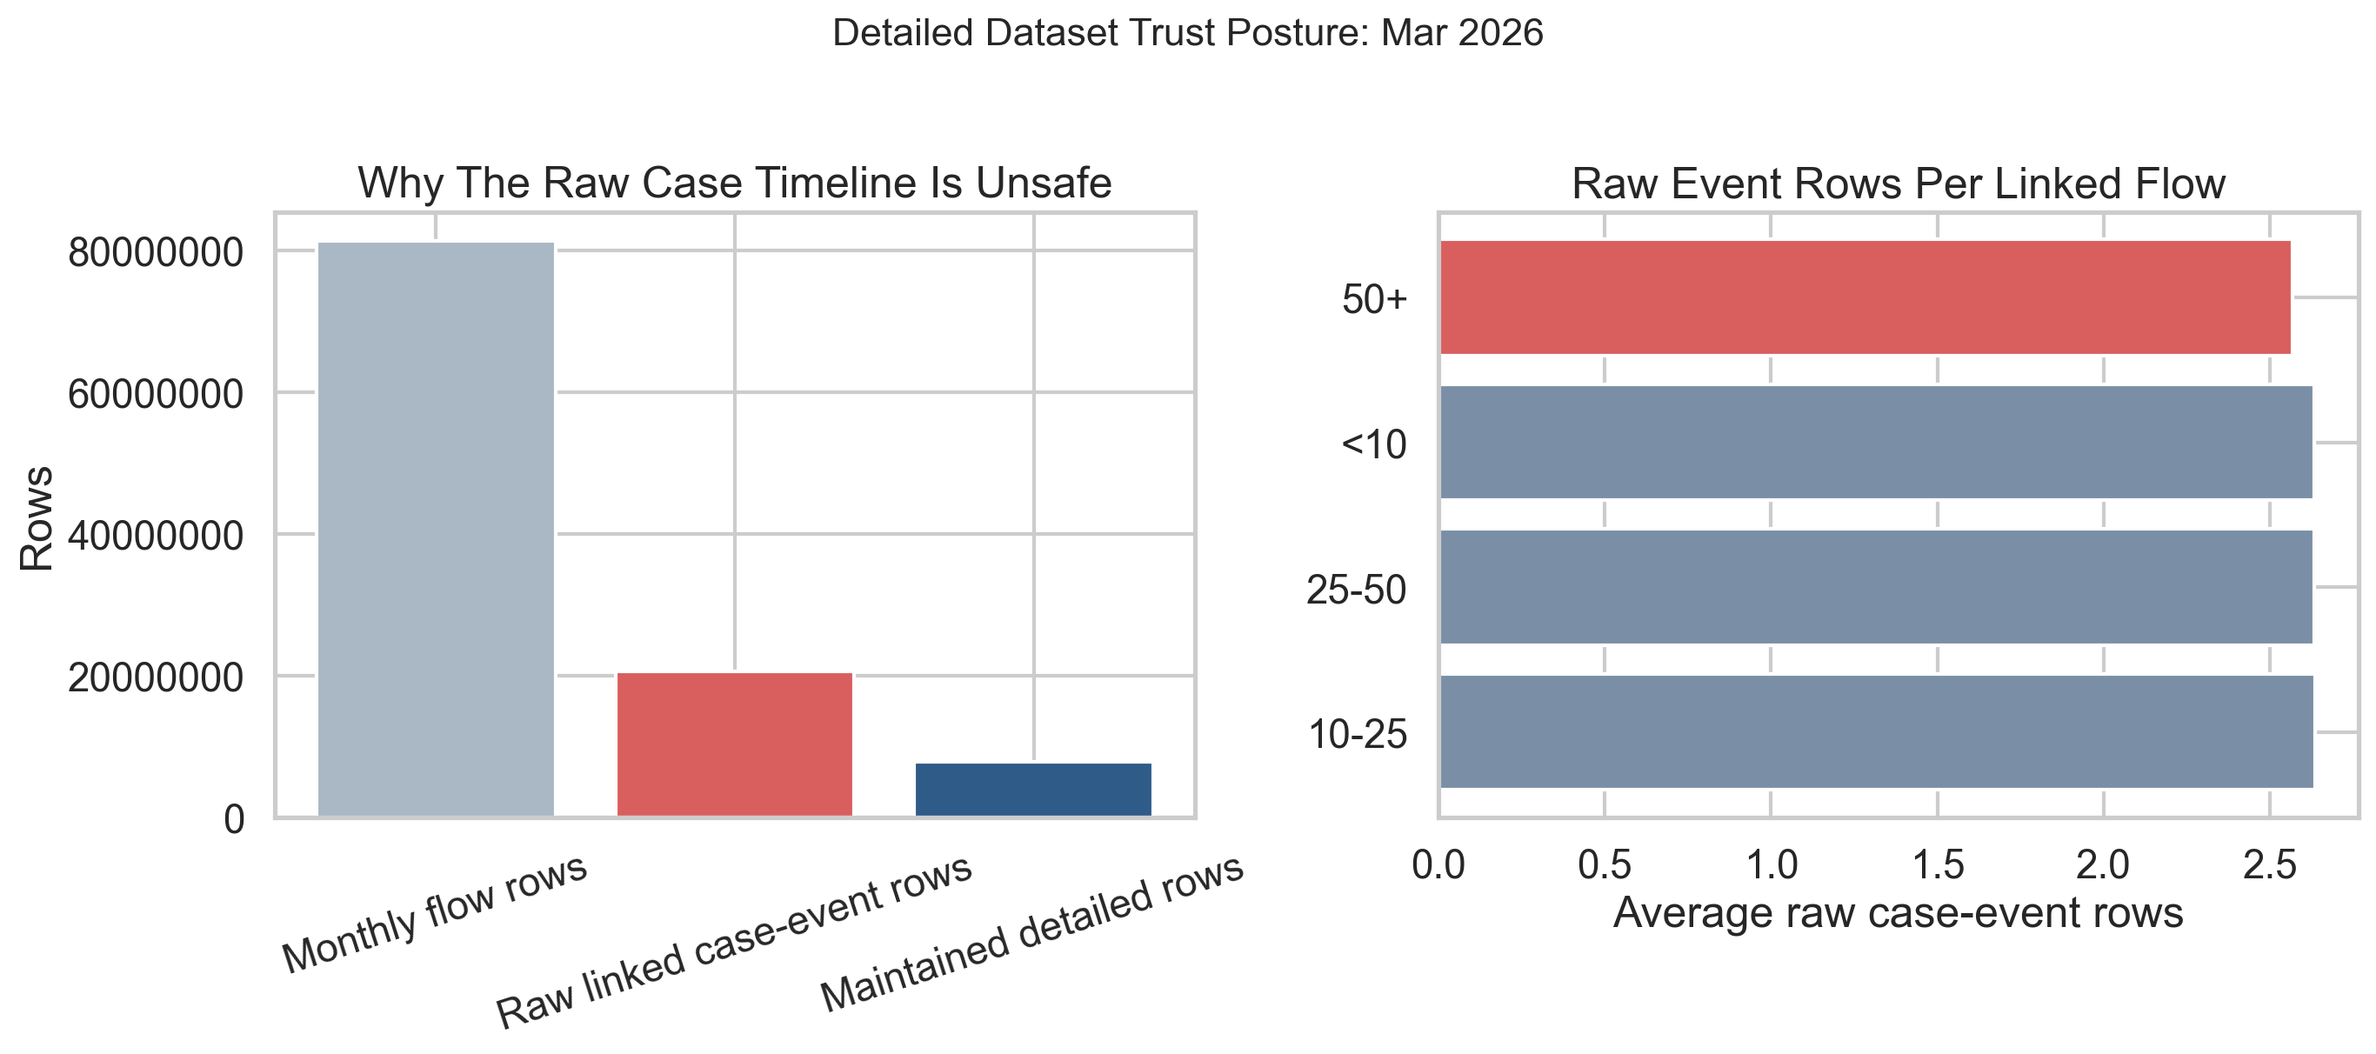
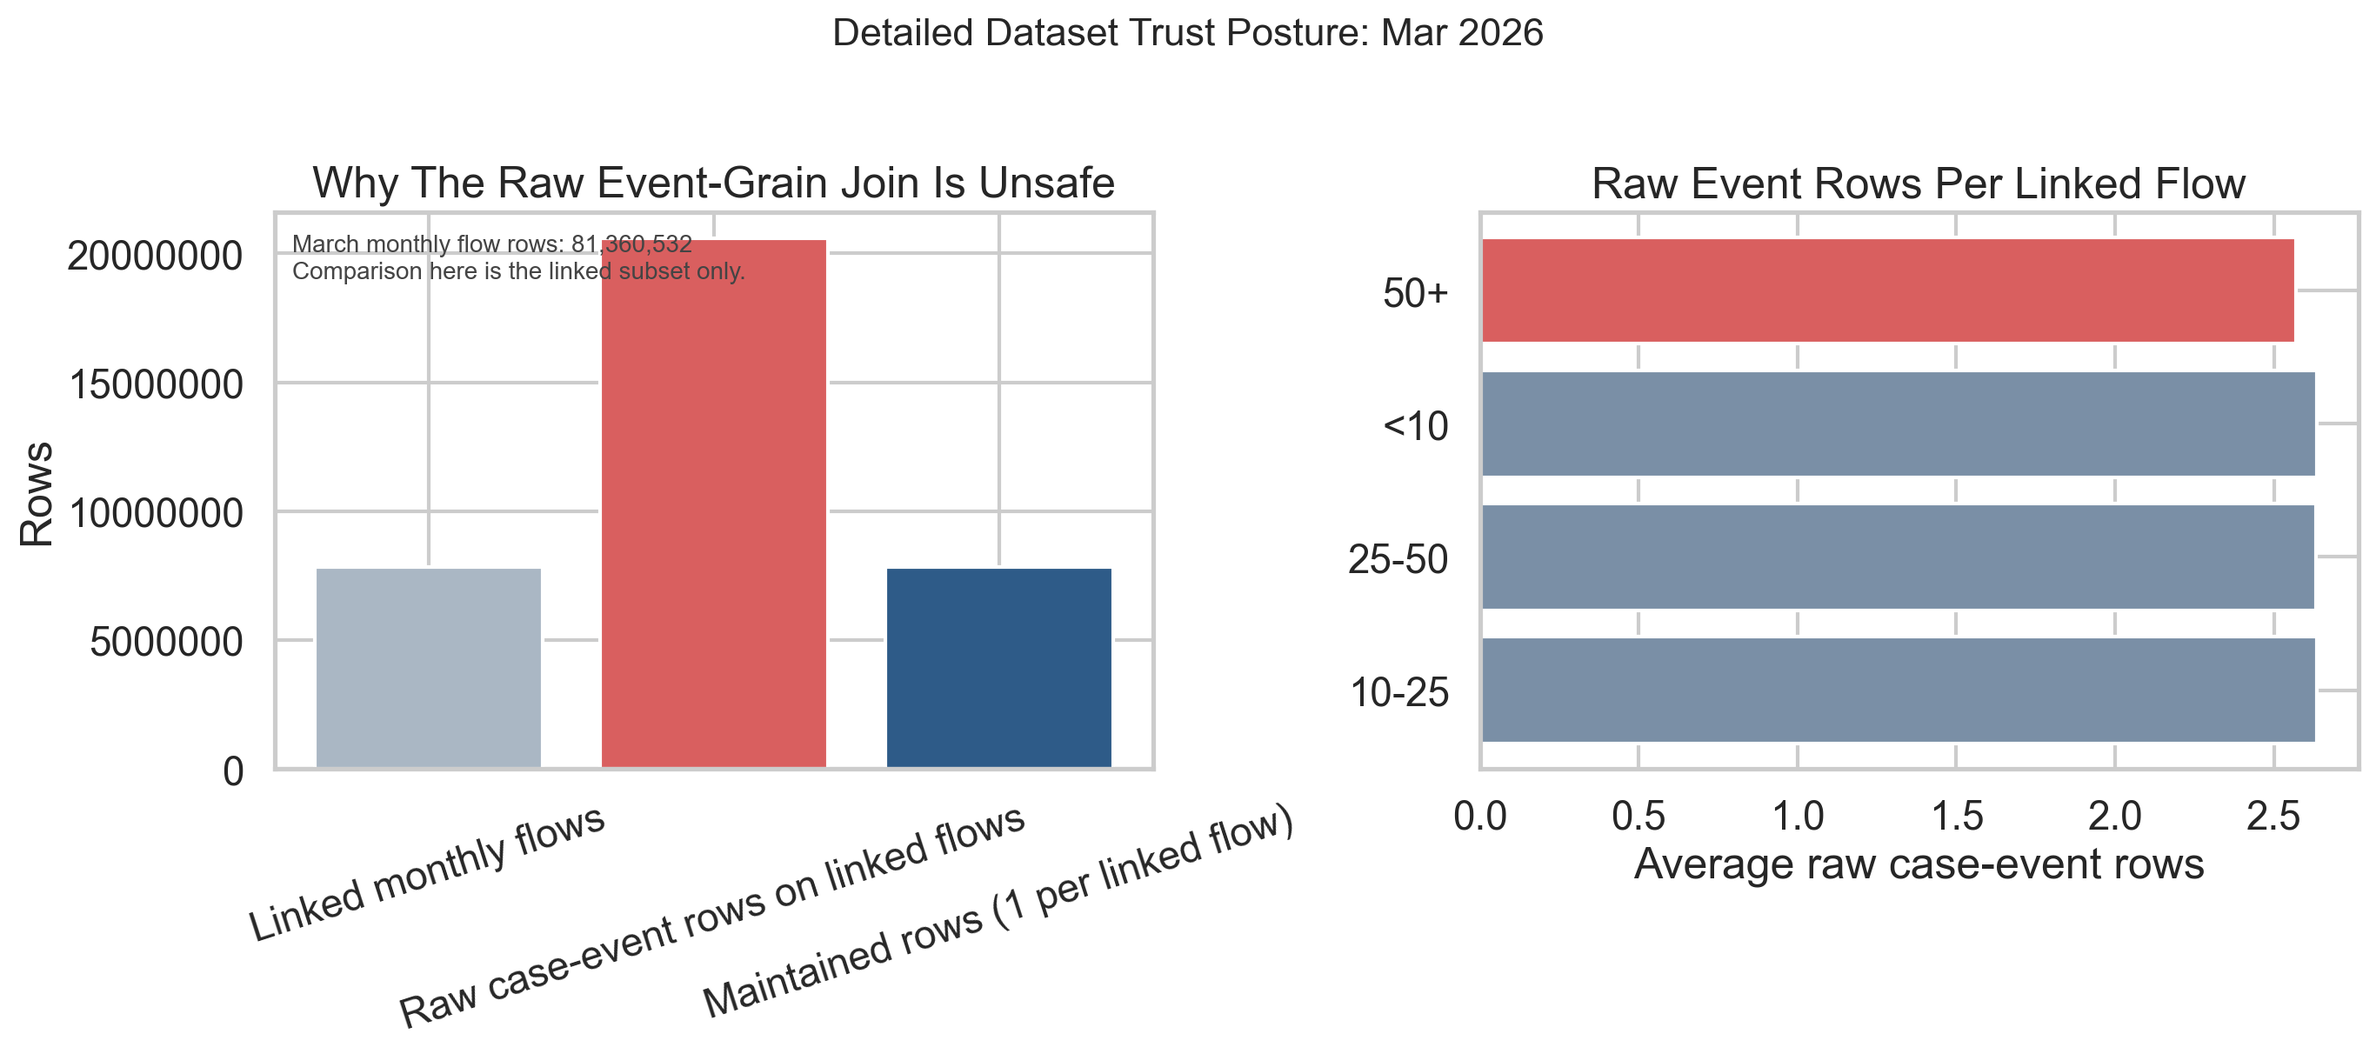
Update execution report and figures for patient-level dataset stewardship; enhance clarity and detail in visualizations

diff --git a/artefacts/analytics_slices/data_analyst/inhealth_group/02_patient_level_dataset_stewardship/models/build_patient_level_dataset_stewardship.py b/artefacts/analytics_slices/data_analyst/inhealth_group/02_patient_level_dataset_stewardship/models/build_patient_level_dataset_stewardship.py
@@ -424,12 +424,12 @@ def main() -> None:
     overall_bars = pd.DataFrame(
         {
             "stage": [
-                "Monthly flow rows",
-                "Raw linked case-event rows",
-                "Maintained detailed rows",
+                "Linked monthly flows",
+                "Raw case-event rows on linked flows",
+                "Maintained rows (1 per linked flow)",
             ],
             "rows": [
-                float(overall_profile["flow_rows"]),
+                float(overall_profile["case_linked_rows"]),
                 float(overall_profile["raw_case_event_rows_on_linked_flows"]),
                 float(dataset_metrics["maintained_rows"]),
             ],
@@ -441,9 +441,18 @@ def main() -> None:
         color=["#AAB7C4", "#D95F5F", "#2E5B88"],
     )
     axes[0].ticklabel_format(style="plain", axis="y")
-    axes[0].set_title("Why The Raw Case Timeline Is Unsafe")
+    axes[0].set_title("Why The Raw Event-Grain Join Is Unsafe")
     axes[0].set_ylabel("Rows")
     axes[0].tick_params(axis="x", rotation=18)
+    axes[0].annotate(
+        f"March monthly flow rows: {comma(float(overall_profile['flow_rows']))}\nComparison here is the linked subset only.",
+        xy=(0.02, 0.96),
+        xycoords="axes fraction",
+        ha="left",
+        va="top",
+        fontsize=10,
+        color="#444444",
+    )
 
     axes[1].barh(
         band_profile_df["label"],

diff --git a/docs/experience_lake/outward-facing-assets/analytics-role-lenses/data_analyst/inhealth_group/02_patient_level_dataset_stewardship/execution_report.md b/docs/experience_lake/outward-facing-assets/analytics-role-lenses/data_analyst/inhealth_group/02_patient_level_dataset_stewardship/execution_report.md
@@ -1,0 +1,353 @@
+# Execution Report - Patient-Level Dataset Stewardship Slice
+
+As of `2026-04-04`
+
+Purpose:
+- record what was actually executed for the InHealth `Data Analyst` slice around patient-level dataset maintenance, validation, and reconciliation
+- preserve the truth boundary between one bounded detailed-dataset stewardship proof object and any wider claim about full healthcare patient-record ownership
+- package the saved facts, maintained dataset outputs, validation and reconciliation checks, stewardship notes, and supporting figures into one outward-facing report
+
+Truth boundary:
+- this execution was completed against the bounded `local_full_run-7` raw parquet surfaces, but only through filtered SQL scans and compact derived outputs
+- the slice did not load broad raw source families into pandas or another in-memory dataframe layer
+- the slice was limited to one stewardship window:
+  - `Mar 2026`
+- the employer language is patient-level, but the honest platform analogue here is a case-level sensitive reporting dataset built from:
+  - monthly flow records
+  - rolled case state
+  - truth labels
+- the slice therefore supports a truthful claim about maintaining, validating, and reconciling one detailed reporting dataset and protecting downstream reporting accuracy through that stewardship
+- it does not support a claim that a broad healthcare patient-record estate or full longitudinal stewardship programme has already been implemented
+
+---
+
+## 1. Executive Answer
+
+The slice asked:
+
+`can one bounded detailed reporting dataset be maintained, validated, and reconciled carefully enough that a downstream monthly reporting output remains accurate and defensible?`
+
+The bounded answer is:
+- one detailed monthly stewardship window was fixed:
+  - `Mar 2026`
+- one maintained dataset grain was fixed:
+  - one row per `flow_id` where the monthly flow converted into case-opened work
+- the detailed source path was profiled before materialisation
+- one trust risk was identified clearly:
+  - the raw case surface is event-grain, not maintained reporting grain
+- one controlled fix was applied:
+  - roll the case timeline to one row per `flow_id` before joining it into the maintained detailed dataset
+- one maintained detailed dataset was produced with:
+  - `7,835,199` rows
+  - `7,835,199` distinct `flow_id`
+  - `7,835,199` distinct `case_id`
+- one validation pack was executed and passes `5/5` checks
+- one reconciliation pack was executed and matches the current InHealth `3.A` reporting lane exactly across `4/4` amount bands
+- the maintained dataset protects a downstream monthly reading of:
+  - `9.63%` overall case-open rate
+  - `19.86%` overall truth quality
+- regeneration takes about `491.1` seconds because the slice scans a large raw monthly detailed surface in bounded SQL rather than starting from already reduced weekly outputs
+
+That means this slice did not merely document data quality. It maintained one detailed reporting dataset carefully enough that downstream reporting could be reproduced exactly from the controlled version.
+
+## 2. Slice Summary
+
+The slice executed was:
+
+`one maintained case-level reporting dataset across one monthly window for one programme lane, with explicit validation, reconciliation, and reporting-protection controls`
+
+This was chosen because it allowed a direct response to the InHealth requirement:
+- maintain patient-level datasets
+- validate patient-level datasets
+- reconcile patient-level datasets
+- ensure reporting accuracy through that maintenance and reconciliation work
+
+The main delivered outputs were:
+- one source-profile output
+- one maintained detailed dataset
+- one validation-check output
+- one reporting-safe summary
+- one reconciliation-check output
+- one source map
+- one field-authority note
+- one issue note
+- one reporting-protection note
+- one maintenance checklist
+- one caveat note
+- one regeneration README
+
+## 3. How This Maps To The Slice Plan
+
+The execution stayed aligned to the approved InHealth `3.C` slice rather than drifting into a broader reporting-support or generic quality-programme story.
+
+The delivered scope maps back to the planned lens responsibilities as follows:
+- `03 - Data Quality, Governance, and Trusted Information Stewardship`: detailed source profiling, grain definition, field-authority control, maintained dataset materialisation, validation checks, and issue identification
+- `02 - BI, Insight, and Reporting Analytics`: one protected downstream reporting-safe summary and exact reconciliation back to the InHealth `3.A` reporting lane
+- `09 - Analytical Delivery Operating Discipline`: stable SQL build order, maintenance checklist, caveats note, and regeneration README
+- `01 - Operational Performance Analytics`: one bounded downstream operational consequence only, namely that the maintained dataset reproduces the protected current-month case-open and truth-quality readings safely
+
+The report therefore needs to be read as proof of careful detailed-dataset stewardship for one bounded lane, not as proof that every InHealth-style detailed dataset is already operationalised.
+
+## 4. Execution Posture
+
+The execution followed the corrected profiling-first and memory-safe posture rather than a casual detailed-data rebuild posture.
+
+The working discipline was:
+- start with source-path, grain, and field-suitability profiling before any maintained dataset build
+- keep all heavy work inside `DuckDB`
+- scan only the required month:
+  - `Mar 2026`
+- project only the fields needed for:
+  - grain confirmation
+  - field authority
+  - validation and reconciliation
+  - downstream reporting-safe use
+- materialise the maintained dataset in SQL only after the trust rules were stable
+- use Python only after the SQL layer had already reduced the raw surfaces to compact outputs
+
+This matters for the truth of the slice because the responsibility is about careful dataset stewardship, and the execution should reflect industry-style database discipline rather than toy-data assumptions.
+
+## 5. Bounded Build That Was Actually Executed
+
+### 5.1 Source profiling and grain confirmation
+
+The slice first confirmed the real structure of the detailed source path rather than assuming the richer HUC-style or Midlands-style shapes carried over directly.
+
+Observed bounded source facts used to define the maintained dataset:
+
+| Surface | `Mar 2026` Rows | Distinct Key Reading |
+| --- | ---: | ---: |
+| flow anchor | 81,360,532 | 81,360,532 distinct `flow_id` |
+| case timeline | 19,829,993 | 13,383,557 distinct `case_id`, 13,383,557 distinct `flow_id` |
+| truth labels surface | 236,691,694 total rows | 236,691,694 distinct `flow_id` |
+
+Important reading:
+- the bounded monthly flow surface is already one row per `flow_id`
+- the case surface is not reporting-safe at raw grain because it is event-grain
+- the truth surface was used as a full-surface lookup and uniqueness check because it is keyed stably at `flow_id` rather than month-partitioned inside this slice
+
+That meant the maintained dataset had to be defined as:
+- one row per monthly `flow_id`
+- but only where that flow converted into case-opened work
+- with one rolled case state and one truth state attached
+
+### 5.2 The trust risk that was actually found
+
+The stewardship issue was not a null-heavy or duplicate-truth issue. The real risk was grain mismatch.
+
+Observed current-month linkage facts:
+
+| Measure | Value |
+| --- | ---: |
+| March flows linked to case activity | 7,835,199 |
+| Raw case-event rows on those linked flows | 20,581,909 |
+| Average raw case-event rows per linked flow | 2.63 |
+
+Meaning:
+- if the raw case timeline were joined directly into a detailed reporting dataset, linked March flows would be duplicated
+- the duplication risk is structural, not cosmetic
+- the maintained dataset therefore had to roll the case timeline to one row per `flow_id` before joining
+
+This is the central stewardship proof of the slice.
+
+### 5.3 Maintained detailed dataset
+
+The maintained dataset was intentionally narrow and controlled.
+
+Observed maintained dataset facts:
+
+| Measure | Value |
+| --- | ---: |
+| Maintained dataset rows | 7,835,199 |
+| Distinct `flow_id` | 7,835,199 |
+| Distinct `case_id` | 7,835,199 |
+| Average raw case-event rows behind each maintained row | 2.63 |
+
+The maintained dataset therefore:
+- preserves one row per `flow_id`
+- preserves one `case_id` per retained row
+- keeps the rolled case state visible through `raw_case_event_rows`
+- remains fit for downstream reporting use without event-grain duplication
+
+### 5.4 Validation layer
+
+The validation pack was intentionally simple and hard-edged.
+
+Observed validation results:
+
+| Check | Result |
+| --- | ---: |
+| monthly flow ids unique | pass |
+| truth surface unique at `flow_id` | pass |
+| maintained dataset unique at `flow_id` | pass |
+| maintained dataset required fields complete | pass |
+| maintained dataset contains only case-opened rows | pass |
+
+Validation verdict:
+- `5/5` checks passed
+
+This is enough for the slice because the requirement is not “build an enterprise DQ framework.” It is “maintain, validate, and reconcile a detailed dataset carefully enough to keep reporting accurate.”
+
+### 5.5 Protected downstream summary
+
+The downstream proof was kept intentionally small so the slice did not turn back into another reporting-ownership exercise.
+
+Observed protected overall reporting-safe summary:
+
+| Measure | Value |
+| --- | ---: |
+| Overall case-open rate | 9.63% |
+| Overall truth quality | 19.86% |
+
+Observed protected band-level readings:
+
+| Band | Case-Open Rate | Truth Quality |
+| --- | ---: | ---: |
+| `<10` | 9.48% | 20.09% |
+| `10-25` | 9.49% | 20.13% |
+| `25-50` | 9.53% | 20.02% |
+| `50+` | 10.82% | 18.11% |
+
+This proves that the maintained dataset is not just tidy internally. It supports a real downstream monthly reading.
+
+### 5.6 Reconciliation back to the reporting lane
+
+The downstream protected summary was then reconciled to the current-month reporting lane from InHealth `3.A`.
+
+Observed reconciliation results:
+
+| Band | Flow Rows Match | Case-Opened Rows Match | Truth Rows Match | Verdict |
+| --- | ---: | ---: | ---: | --- |
+| `<10` | yes | yes | yes | pass |
+| `10-25` | yes | yes | yes | pass |
+| `25-50` | yes | yes | yes | pass |
+| `50+` | yes | yes | yes | pass |
+
+Reconciliation verdict:
+- `4/4` amount bands matched exactly
+
+This is the most important downstream proof in the slice:
+- the maintained dataset is not only internally valid
+- it reproduces the current reporting lane exactly once its grain is controlled
+
+## 6. Figures Actually Delivered
+
+### 6.1 Figure 1 - Raw case-event join risk
+
+The first figure was designed to answer:
+- why can the raw case surface not be joined directly?
+- how large is the duplication risk?
+- does that risk vary materially by band?
+
+Delivered components:
+- linked-subset row-count contrast between:
+  - linked monthly flows
+  - raw case-event rows on those linked flows
+  - maintained rows after rolling to one row per linked flow
+- average raw case-event rows per linked flow by amount band
+
+The strongest reading from this figure is:
+- the raw case surface is structurally unsafe for detailed reporting joins
+- the maintained dataset exists because the raw event-grain path would otherwise distort reporting
+
+### 6.2 Figure 2 - Maintained dataset reporting protection
+
+The second figure was designed to answer:
+- what downstream reporting position does the maintained dataset protect?
+- do the protected rates still preserve the same operational pattern?
+- was the maintained summary reconciled back to the reporting lane exactly?
+
+Delivered components:
+- protected case-open rate by band
+- protected truth quality by band
+- reconciliation note showing exact match to the InHealth `3.A` lane
+
+The strongest reading from this figure is:
+- the maintained dataset protects a real reporting outcome
+- it preserves the current operational pattern without raw event-grain duplication
+
+## 7. Figures
+
+### 7.1 Raw case-event join risk
+
+![Raw case-event join risk](../../../../../../../artefacts/analytics_slices/data_analyst/inhealth_group/02_patient_level_dataset_stewardship/figures/raw_case_event_join_risk.png)
+
+This figure carries the core stewardship story:
+- the left panel stays within the linked-flow subset and shows why raw case-event rows are unsafe as a reporting grain
+- the right panel shows that each linked flow carries more than one raw case-event row on average
+- the maintained detailed dataset is therefore a control necessity, not a cosmetic reshape
+
+### 7.2 Maintained dataset reporting protection
+
+![Maintained dataset reporting protection](../../../../../../../artefacts/analytics_slices/data_analyst/inhealth_group/02_patient_level_dataset_stewardship/figures/maintained_dataset_reporting_protection.png)
+
+This figure carries the downstream protection story:
+- the maintained dataset preserves the current-month rate pattern by band
+- the reporting-safe summary remains analytically useful after the grain correction
+- the slice explicitly anchors that protected summary back to the current InHealth `3.A` reporting lane
+
+## 8. Stewardship Assets Produced
+
+The slice produced the operational assets that make the stewardship lane credible.
+
+Trust and definition assets:
+- source map
+- field-authority note
+- issue note
+
+Maintained-data and protected-reporting assets:
+- maintained detailed dataset
+- reporting-safe summary
+- reporting-protection note
+
+Control assets:
+- validation checks
+- reconciliation checks
+- maintenance checklist
+- caveats note
+- regeneration README
+
+This is the key difference between this slice and a generic “I cleaned some data” claim:
+- the output here is not just one cleaned table
+- it is one maintained dataset plus the validation, reconciliation, and downstream protection evidence around it
+
+## 9. What This Slice Supports Claiming
+
+This slice supports truthful statements such as:
+- maintained a detailed reporting dataset at a controlled grain rather than relying on unsafe raw event joins
+- validated and reconciled the maintained dataset before using it for reporting-safe output
+- protected downstream monthly reporting accuracy through dataset stewardship
+- used SQL-first, memory-safe execution to shape industrial-scale detailed data into a maintained reporting dataset
+
+The slice does not support claiming that:
+- a broad healthcare patient-level data estate has already been implemented
+- all detailed dataset stewardship needs have already been solved
+- every downstream reporting dependency has already been industrialised
+- the platform now proves full healthcare data governance outside this bounded analogue
+
+## 10. Candidate Resume Claim Surfaces
+
+This section should be read as a direct response to the InHealth `3.C` responsibility, not as a generic “I improved data quality” statement.
+
+The requirement asks for someone who can:
+- maintain patient-level datasets
+- validate patient-level datasets
+- reconcile patient-level datasets
+- ensure reporting accuracy through that work
+
+The claim therefore needs to answer back in evidence form:
+- I maintained one bounded detailed reporting dataset at a controlled grain
+- I validated and reconciled it before releasing it for downstream reporting use
+- I protected the downstream reporting lane because the maintained dataset reproduced it exactly
+
+### 10.1 Flagship `X by Y by Z` claim
+
+> Maintained, validated, and reconciled a detailed reporting dataset to keep monthly reporting accurate, as measured by applying `5` repeatable validation checks to a controlled `7,835,199`-row maintained dataset, reproducing the downstream reporting lane exactly across `4/4` amount bands, and regenerating the maintained dataset and protected summary in `491.1` seconds, by profiling a bounded March case-linked reporting surface, correcting the raw case timeline from unsafe event-grain joins to one rolled case state per `flow_id`, and releasing a reporting-safe detailed dataset from that controlled definition.
+
+### 10.2 Shorter recruiter-facing version
+
+> Maintained and reconciled a trusted detailed reporting dataset, as measured by repeatable validation checks, exact reconciliation back to the downstream monthly reporting lane, and controlled regeneration from bounded SQL logic, by replacing unsafe raw case-event joins with a maintained one-row-per-flow dataset fit for reporting use.
+
+### 10.3 Closer direct-response version
+
+> Maintained, validated, and reconciled a detailed reporting dataset to ensure reporting accuracy, as measured by controlled field and grain integrity, repeatable dataset checks, and a downstream reporting-safe summary that matched the reporting lane exactly, by profiling detailed records carefully, rolling the case timeline to the correct reporting grain, and releasing a maintained dataset fit for reporting use.
